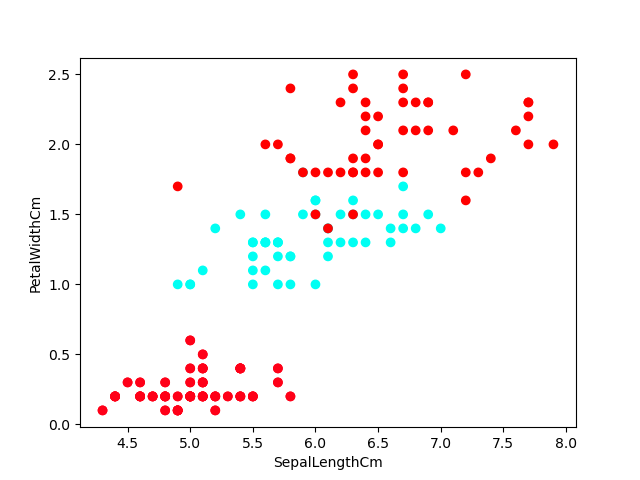
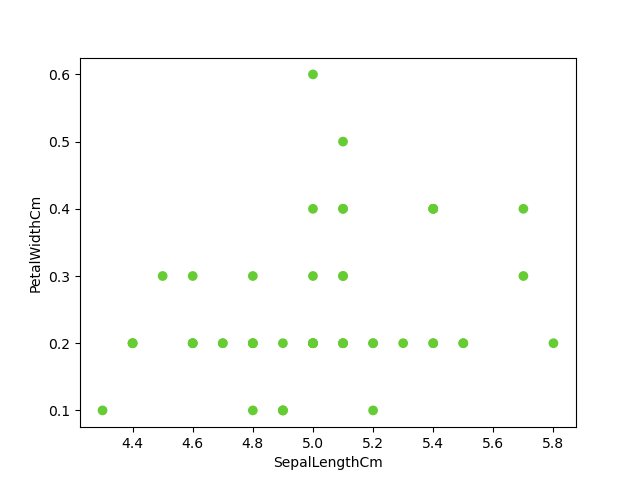
fixed scatter coloring and clear plot

diff --git a/yy_final_exercise.py b/yy_final_exercise.py
@@ -1,5 +1,6 @@
 import numpy as np
 import pandas as pd
+import random
 import matplotlib.pyplot as plt
 
 
@@ -12,22 +13,34 @@ def demo(path):
     print(dataset)
 
     two_features = [0, 3]
+
+    # Generate plot scatter:
     dataset.plot_scatter('plot1.png', two_features)
 
+    # Run snippet:
     for i, (observation, label) in enumerate(dataset):
         print(observation, label)
         if i == 3:
             break
 
+    # Filter by label, and generate plot scatter by class
     for label in ["Iris-Error", "Iris-setosa"]:
         print(f"filter by label: {label}")
 
         try:
-            sub_dataset = dataset.filter_by_label(label)
+            sub_dataset_tuple = dataset.filter_by_label(label)
+            sub_dataset = Dataset(sub_dataset_tuple[0], sub_dataset_tuple[1], sub_dataset_tuple[2])
             print(sub_dataset)
             sub_dataset.plot_scatter(f"plot_{label}.png", two_features)
         except KeyError:
             print(f"no such label")
+
+
+def generate_random_color():
+    r = round(random.uniform(0.0, 1.0), 1)
+    g = round(random.uniform(0.0, 1.0), 1)
+    b = round(random.uniform(0.0, 1.0), 1)
+    return r, g, b
 
 
 class Dataset:
@@ -69,33 +82,34 @@ class Dataset:
 
     def filter_by_label(self, value):
         indices = np.where(self.labels == value)[0]
-
+        print("indices: ", indices)
         if len(indices) == 0:
             raise KeyError(f"Label '{value}' not found in the dataset")
-        return Dataset(self.data[indices], self.labels[indices], self.column_names)
+        print("self.labels[indices]: ", self.labels[indices])
+        return self.data[indices], self.labels[indices], self.column_names
 
     def plot_scatter(self, path, feature_indices):
         x = self.data[:, feature_indices[0]]
         y = self.data[:, feature_indices[1]]
+        colors = self.colors_by_label
 
-        # colors
-        labels_set = set(self.labels)
-
-        colors_dict = {}
-
-        get_cmap = plt.cm.get_cmap('hsv', len(labels_set))
-
-        for i, label in enumerate(labels_set):
-            colors_dict[label] = get_cmap(i)
-
-        colors_list = []
-        for label in self.labels:
-            colors_list.append(colors_dict[label])
-
-        plt.scatter(x, y, c=colors_list)
+        plt.scatter(x, y, c=colors)
         plt.xlabel(self.column_names[feature_indices[0]])
         plt.ylabel(self.column_names[feature_indices[1]])
         plt.savefig(path)
+        plt.clf()
 
-    def get_color(self, index):
-        return plt.cm.get_cmap('hsv', self.num_classes)(index)
+    @property
+    def colors_by_label(self):
+        unique_labels = set(self.labels)
+
+        colors_dict = {}
+        for label in unique_labels:
+            colors_dict[label] = generate_random_color()
+
+        print("colors_dict: ", colors_dict)
+
+        colors_list = [colors_dict[label] for label in self.labels]
+        print("colors_list: ", colors_list)
+
+        return colors_list
